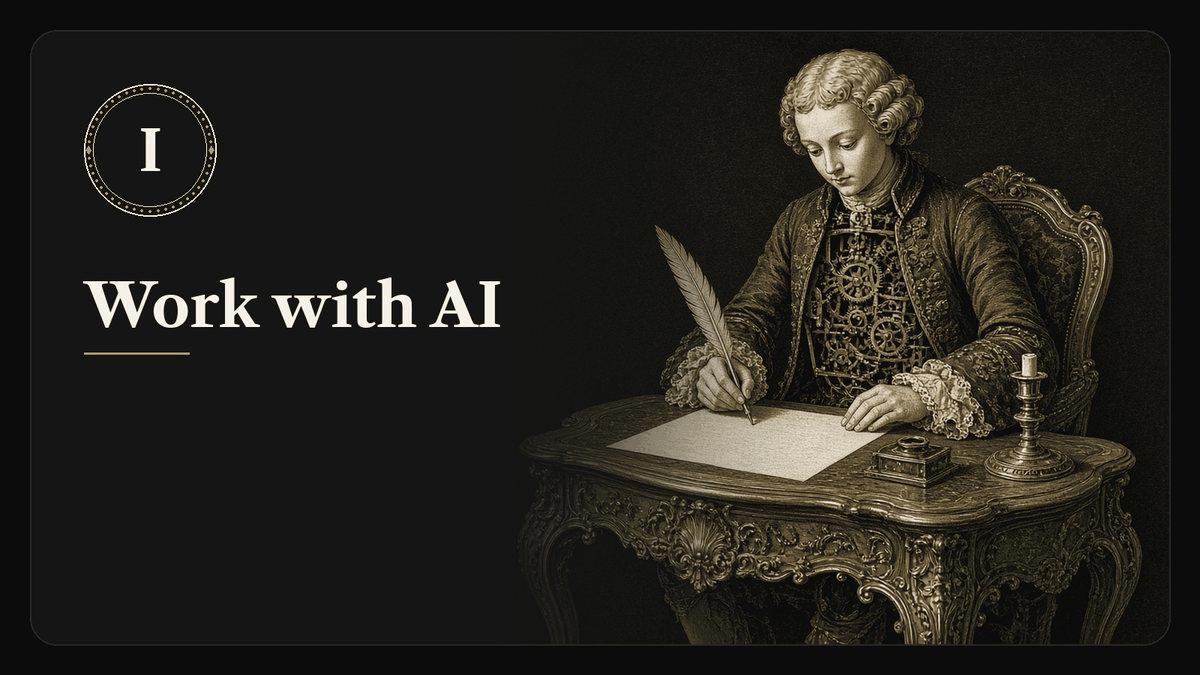
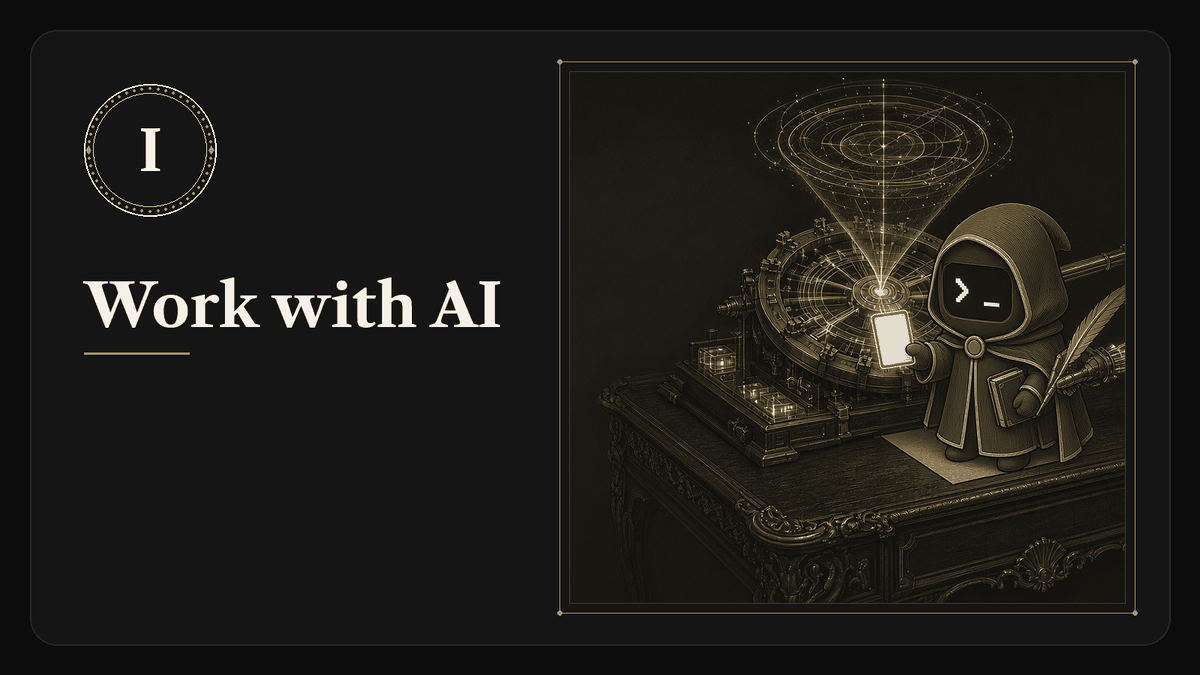
academy: swap track covers to v8b and update cover alt text
Replace the 12 track PNGs under apps/witnessops-academy/public/tracks/assets/
in place (same filenames, same pixel sizes) with Design's v8b package and
apply release/alt-text.patch to the four track pages. No CSS, layout, route
or new-file changes.

Changed region(s): [[0.4625, 0.0622, 0.9558, 0.9644], [0.4625, 0.8711, 0.4933, 0.9333], [0.4625, 0.0622, 0.4933, 0.1244]]

diff --git a/apps/witnessops-academy/public/tracks/build-agents/index.html b/apps/witnessops-academy/public/tracks/build-agents/index.html
@@ -7,7 +7,7 @@
 
 <p class="lede">An agent is only as good as the job you gave it and the proof it has to leave.</p><span class="status">Status: <strong>coming soon</strong> · lessons not written yet</span>
 
-<figure><img class="wd" src="/tracks/assets/cover-build-agents.png" alt="Track II cover, Build agents: an automaton at a workbench with tools laid out." width="1200" height="675"><img class="sq" src="/tracks/assets/cover-build-agents-square.png" alt="Track II cover, Build agents: an automaton at a workbench with tools laid out." width="780" height="780"><figcaption>An automaton at the workbench, tools laid out in order. It works best when told exactly which one to pick up.</figcaption></figure>
+<figure><img class="wd" src="/tracks/assets/cover-build-agents.png" alt="Track II cover, Build agents: a small box-headed robot with a code-bracket face uses a wrench to fit a glowing ring onto a stack of discs rising from an open chest." width="1200" height="675"><img class="sq" src="/tracks/assets/cover-build-agents-square.png" alt="Track II cover, Build agents: a small box-headed robot with a code-bracket face uses a wrench to fit a glowing ring onto a stack of discs rising from an open chest." width="780" height="780"><figcaption>An automaton at the workbench, tools laid out in order. It works best when told exactly which one to pick up.</figcaption></figure>
 
 <h2>Who it's for</h2>
 <p>People who build or configure AI agents: writing their instructions, choosing their tools, deciding when a job is finished.</p>

diff --git a/apps/witnessops-academy/public/tracks/operate-safely/index.html b/apps/witnessops-academy/public/tracks/operate-safely/index.html
@@ -7,7 +7,7 @@
 
 <p class="lede">Give an agent the keys it needs for this job, and get them back after.</p><span class="status">Status: <strong>coming soon</strong> · lessons not written yet</span>
 
-<figure><img class="wd" src="/tracks/assets/cover-operate-safely.png" alt="Track III cover, Operate safely: a ring of keys beside a chained chest." width="1200" height="675"><img class="sq" src="/tracks/assets/cover-operate-safely-square.png" alt="Track III cover, Operate safely: a ring of keys beside a chained chest." width="780" height="780"><figcaption>Keys on a ring, and a chest held shut with chain. Every lock opened is a lock someone has to account for.</figcaption></figure>
+<figure><img class="wd" src="/tracks/assets/cover-operate-safely.png" alt="Track III cover, Operate safely: a small crowned robot holds the glowing ring around a strongbox keyhole while a mechanical hand reaches in from the right and stops short of it." width="1200" height="675"><img class="sq" src="/tracks/assets/cover-operate-safely-square.png" alt="Track III cover, Operate safely: a small crowned robot holds the glowing ring around a strongbox keyhole while a mechanical hand reaches in from the right and stops short of it." width="780" height="780"><figcaption>Keys on a ring, and a chest held shut with chain. Every lock opened is a lock someone has to account for.</figcaption></figure>
 
 <h2>Who it's for</h2>
 <p>People who run agents with real access and permissions: to systems, accounts, files or money.</p>

diff --git a/apps/witnessops-academy/public/tracks/verify-results/index.html b/apps/witnessops-academy/public/tracks/verify-results/index.html
@@ -7,7 +7,7 @@
 
 <p class="lede">A report is a sentence somebody wrote. Evidence is something you can open and check.</p><span class="status">Status: <strong>pilot open</strong> · by invitation · Lessons 1 and 2 are pilot drafts</span>
 
-<figure><img class="wd" src="/tracks/assets/cover-verify-results.png" alt="Track IV cover, Verify results: scales and a magnifier on a desk." width="1200" height="675"><img class="sq" src="/tracks/assets/cover-verify-results-square.png" alt="Track IV cover, Verify results: scales and a magnifier on a desk." width="780" height="780"><figcaption>Scales and a magnifier on the desk. The report goes on one side, the record on the other.</figcaption></figure>
+<figure><img class="wd" src="/tracks/assets/cover-verify-results.png" alt="Track IV cover, Verify results: a small robot in a beret brings a blank sheet to a brass balance while an armoured robot with a shield checks the scale through a lens." width="1200" height="675"><img class="sq" src="/tracks/assets/cover-verify-results-square.png" alt="Track IV cover, Verify results: a small robot in a beret brings a blank sheet to a brass balance while an armoured robot with a shield checks the scale through a lens." width="780" height="780"><figcaption>Scales and a magnifier on the desk. The report goes on one side, the record on the other.</figcaption></figure>
 
 <h2>Who it's for</h2>
 <p>Anyone who has to decide whether an AI's report is true, whether you run the agent or just receive its results.</p>

diff --git a/apps/witnessops-academy/public/tracks/work-with-ai/index.html b/apps/witnessops-academy/public/tracks/work-with-ai/index.html
@@ -7,7 +7,7 @@
 
 <p class="lede">AI can do real work for you. You still decide what counts as done.</p><span class="status">Status: <strong>coming soon</strong> · lessons not written yet</span>
 
-<figure><img class="wd" src="/tracks/assets/cover-work-with-ai.png" alt="Track I cover, Work with AI: a clockwork scribe writing at a desk." width="1200" height="675"><img class="sq" src="/tracks/assets/cover-work-with-ai-square.png" alt="Track I cover, Work with AI: a clockwork scribe writing at a desk." width="780" height="780"><figcaption>A clockwork scribe at his desk. The quill moves well. Someone still has to read the page.</figcaption></figure>
+<figure><img class="wd" src="/tracks/assets/cover-work-with-ai.png" alt="Track I cover, Work with AI: in an engraved brass scene, a small hooded robot with a terminal-prompt face holds up a blank card to a glowing clockwork machine on a desk." width="1200" height="675"><img class="sq" src="/tracks/assets/cover-work-with-ai-square.png" alt="Track I cover, Work with AI: in an engraved brass scene, a small hooded robot with a terminal-prompt face holds up a blank card to a glowing clockwork machine on a desk." width="780" height="780"><figcaption>A clockwork scribe at his desk. The quill moves well. Someone still has to read the page.</figcaption></figure>
 
 <h2>Who it's for</h2>
 <p>People who use AI tools in their daily work: writing, research, summaries, planning. No coding needed.</p>
